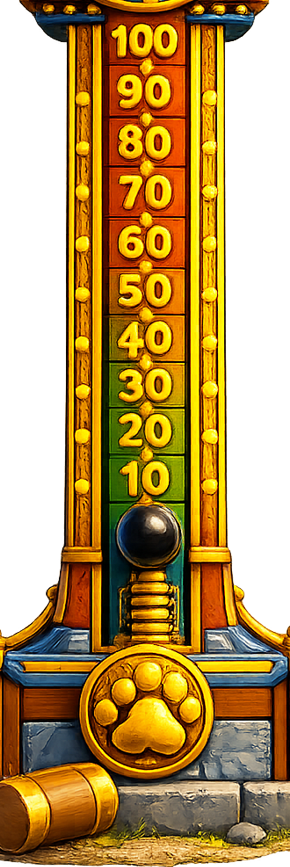
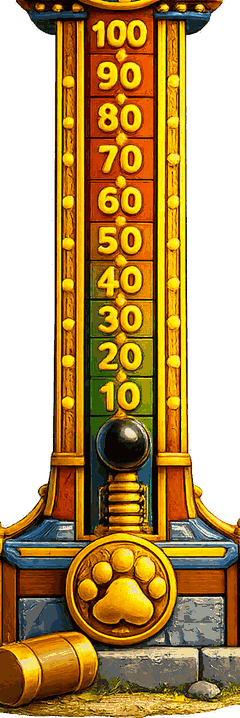
v2: Meter kompakt+Pfeil, Lautkarte gross+warmer BG, Muetze vor Pferd, Turm-Datei 56KB
- 'Hau den Lukas': kompakt & stehend in der Ecke (nicht mehr abgeschnitten),
  flacher aufsteigender Pfeil statt leuchtendem Ball, Datei 491KB -> 56KB.
- Lautkarte (wichtigstes Element) jetzt gross/prominent (16:9, bis 80vh) mit
  warmem Rahmen und warmem Hintergrund.
- Story: Muetze-Spuersnase direkt nach 'draussen' (vor dem Pferd) eingebaut.

Claude-Session: https://claude.ai/code/session_01SFE98sELrQgdsJBmSxZpAj

diff --git a/louis-hermes-v2/src/styles.css b/louis-hermes-v2/src/styles.css
@@ -66,9 +66,10 @@ body {
   animation: fadeIn var(--med) var(--ease) both;
 }
 
-/* Minispiel-Bühne mit Fortschrittsturm: Inhalt rechts vom Turm zentrieren. */
+/* Minispiel-Bühne mit kompaktem Fortschrittsturm (Ecke unten links):
+   Inhalt etwas nach rechts, damit der Turm nichts verdeckt. */
 .stage--meter {
-  padding-left: calc(16px + min(26vw, 240px));
+  padding-left: calc(12px + min(19vw, 150px));
 }
 
 /* Weiche, langsame Einblendung — nie hart, nie schnell. */
@@ -104,13 +105,22 @@ body {
 
 /* Lautkarten sind 16:9 — eigener Rahmen, und das GANZE Video muss sichtbar sein
    (contain statt cover), damit nichts abgeschnitten wird. */
+/* Lautkarte ist das WICHTIGSTE Element -> gross & prominent, mit warmem Rahmen. */
 .laut-card {
   aspect-ratio: 16 / 9;
-  max-height: 62vh;
-  background: #000;
+  width: min(100%, calc(80vh * 16 / 9));
+  max-width: 100%;
+  max-height: 80vh;
+  background: #0b0b0f;
+  border: 3px solid rgba(255, 214, 150, 0.45);
+  box-shadow: 0 18px 60px var(--shadow), 0 0 0 1px rgba(0, 0, 0, 0.4);
 }
 .laut-card video {
-  object-fit: contain;
+  object-fit: cover;
+}
+/* Warmer, einladender Hintergrund für die Laut-Übung (nicht kalt/schwarz). */
+.stage--laut {
+  background: radial-gradient(circle at 50% 42%, #3b3025 0%, var(--bg) 68%);
 }
 
 /* --- Grosses Weiter-Ziel ÜBER dem Beat: das ganze Bild ist antippbar --- */
@@ -389,8 +399,9 @@ body {
 .meter {
   position: fixed;
   left: max(2px, env(safe-area-inset-left));
-  top: max(4px, env(safe-area-inset-top));
-  bottom: max(4px, env(safe-area-inset-bottom));
+  bottom: max(2px, env(safe-area-inset-bottom));
+  /* Kompakt & stehend in der Ecke — NICHT über die ganze Höhe (sonst abgeschnitten). */
+  height: min(52vh, 400px);
   z-index: 20;
   pointer-events: none;
   filter: drop-shadow(0 6px 16px rgba(0, 0, 0, 0.45));
@@ -400,15 +411,17 @@ body {
   width: auto;
   display: block;
 }
-.meter-puck {
+/* Flacher Pfeil, der auf der Skala hochwandert (kein leuchtender Ball). */
+.meter-arrow {
   position: absolute;
-  left: 50%;
-  width: 30%;
-  aspect-ratio: 1;
-  transform: translate(-50%, -50%);
-  border-radius: 50%;
-  background: radial-gradient(circle at 38% 32%, #fff6e0, var(--accent));
-  box-shadow: 0 0 22px 6px rgba(224, 168, 120, 0.85);
+  right: 6%;
+  transform: translateY(-50%);
+  width: 0;
+  height: 0;
+  border-top: 10px solid transparent;
+  border-bottom: 10px solid transparent;
+  border-right: 15px solid #ffd479;
+  filter: drop-shadow(0 1px 2px rgba(0, 0, 0, 0.55));
   transition: top 550ms cubic-bezier(0.34, 1.2, 0.64, 1);
 }
 
@@ -432,7 +445,7 @@ body {
 }
 @media (prefers-reduced-motion: reduce) {
   .confetti { display: none; }
-  .meter-puck { transition: none; }
+  .meter-arrow { transition: none; }
 }
 
 /* Zurück-Knopf für die Minispiele (man kann einen Schritt zurück). */

diff --git a/louis-hermes-v2/src/components/Meter.tsx b/louis-hermes-v2/src/components/Meter.tsx
@@ -17,8 +17,14 @@ interface Particle {
   size: number
 }
 
+// Skala am Turm (in % der Turmhöhe): unten ~10, oben 100.
+const TRACK_BOTTOM = 60.5
+const TRACK_TOP = 5.4
+
 export function Meter({ progress }: { progress: number }) {
   const p = Math.max(0, Math.min(1, progress))
+  // Flacher Pfeil (KEIN leuchtender Ball), der mit dem Fortschritt hochwandert.
+  const arrowTop = TRACK_BOTTOM - (TRACK_BOTTOM - TRACK_TOP) * p
 
   const [parts, setParts] = useState<Particle[]>([])
   const idRef = useRef(0)
@@ -51,6 +57,7 @@ export function Meter({ progress }: { progress: number }) {
     <>
       <div className="meter" aria-hidden="true">
         <img className="meter-tower" src={graphicSrc('hau_gauge.png')} alt="" draggable={false} />
+        <div className="meter-arrow" style={{ top: `${arrowTop}%` }} />
       </div>
       <div className="confetti-layer" aria-hidden="true">
         {parts.map((part) => (

diff --git a/louis-hermes-v2/src/components/LautUebung.tsx b/louis-hermes-v2/src/components/LautUebung.tsx
@@ -220,7 +220,7 @@ export function LautUebung({ laut, onDone }: Props) {
           : ''
 
   return (
-    <div className="stage">
+    <div className="stage stage--laut">
       <div className="training fade-in">
         <div className="training-title">{title}</div>
 

diff --git a/louis-hermes-v2/src/data/story.ts b/louis-hermes-v2/src/data/story.ts
@@ -38,10 +38,10 @@ export interface Beat {
 export const BEATS: Beat[] = [
   { id: 2,  file: 'beat_01_02.mp4', moment: 'Louis im Spielzimmer mit der Polizeiuniform; er zieht Hermès die Uniform an.', training: { type: 'laut' } },
   { id: 3,  file: 'beat_03.mp4', moment: 'Hermès steht stolz in Uniform. Haustür zum Bauernhof öffnet sich.', training: { type: 'puzzle', variant: 'marke' } },
+  { id: 8,  file: 'beat_08.mp4', moment: 'Der Wind weht Louis\' Polizeimütze weg.', training: { type: 'spuren', target: 'muetze' } },
   { id: 4,  file: 'beat_04.mp4', moment: 'Begegnung mit einem grossen Pferd. Hermès bleibt ruhig.', training: { type: 'laut' } },
   { id: 5,  file: 'beat_05.mp4', moment: 'Louis versteckt den Lieblingsball hinter einem Baum.', training: { type: 'puzzle', variant: 'ball' } },
   { id: 6,  file: 'beat_06.mp4', moment: 'Hermès bringt den Ball stolz zurück.', training: { type: 'merken', pic: 'ball.png' } },
-  { id: 8,  file: 'beat_08.mp4', moment: 'Der Wind weht Louis\' Polizeimütze weg.', training: { type: 'spuren', target: 'muetze' } },
   { id: 14, file: 'beat_11_14.mp4', moment: 'Blick über den Bauernhof; Hermès entdeckt den kleinen freundlichen Dieb, der Richtung See rennt.', training: { type: 'laut', laut: 'DIEB' } },
   { id: 15, file: 'beat_15.mp4', moment: 'Sie erreichen den See. Der Dieb wartet am anderen Ufer. Hermès kann nicht schwimmen.', training: { type: 'spuren', target: 'dieb' } },
   { id: 17, file: 'beat_16_17.mp4', moment: 'Louis reicht Hermès die Hand; gemeinsam die letzte Aufgabe. Hermès setzt die erste Pfote ins Wasser.', training: { type: 'laut' } },